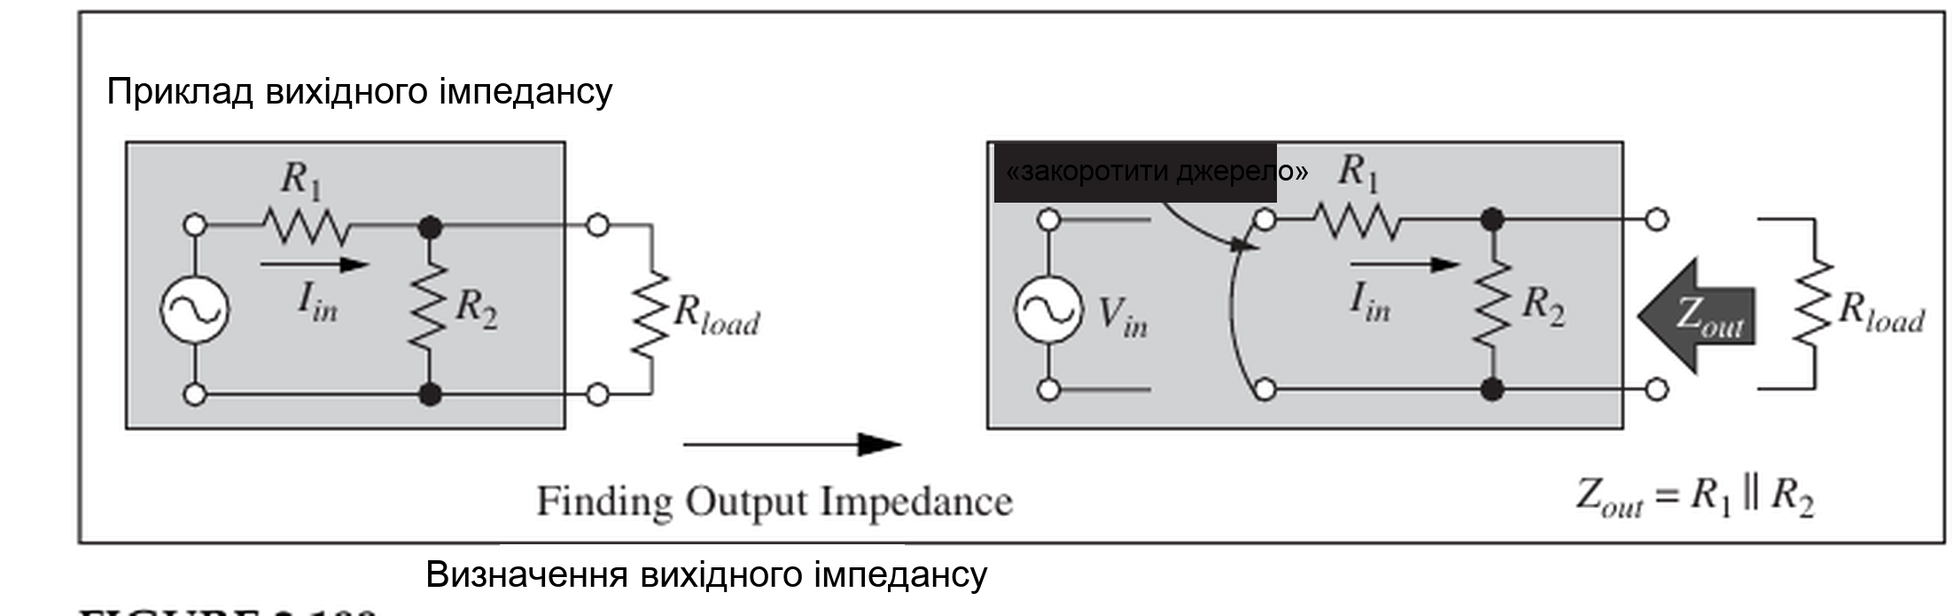
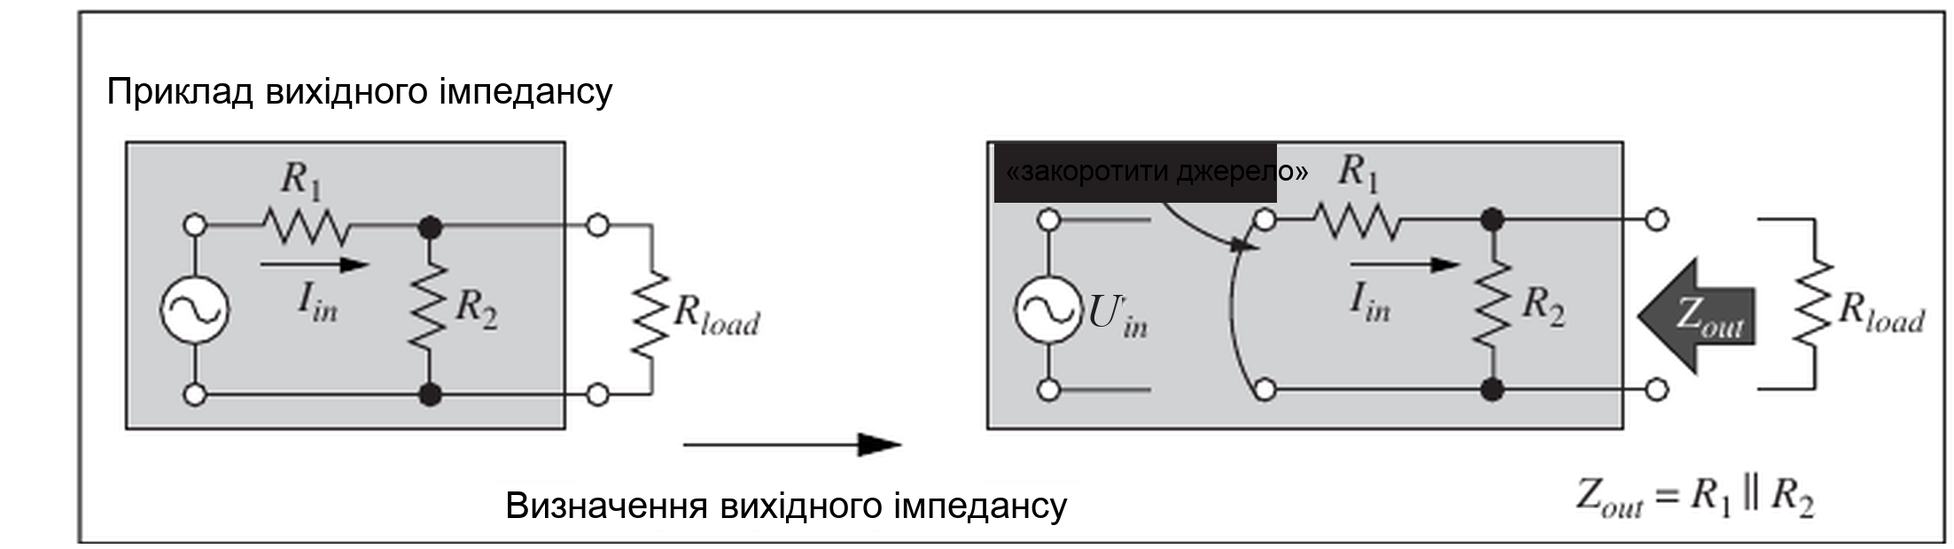
2.32: перевірка перекладу, прибрано додане, додано пропущене, V→U на рис. 2.187–2.188, нотатки перекладача, формули (список), конспект у структурі 🔹

diff --git a/Електроніка/2.32 Вхідний і вихідний імпеданс.md b/Електроніка/2.32 Вхідний і вихідний імпеданс.md
@@ -12,64 +12,39 @@
 
 Приклад пристрою з малим вхідним імпедансом — гучномовець, зазвичай $4$ або $8\,\Omega$. Він споживає значний струм, необхідний для роботи звукової котушки.
 
-> [!note] Чому саме 4 і 8 Ω?
-> Ці значення історично склалися як стандарт звукової котушки гучномовця: досить малий опір дає ефективну передачу потужності від підсилювача до котушки, а стандартизація значень забезпечує сумісність підсилювачів і акустичних систем різних виробників.
+> [!note] Про 4 і 8 Ω *(нотатка перекладача, не з оригіналу)*
+> $4$ і $8\,\Omega$ — типові номінальні імпеданси гучномовців. Саме через такий малий імпеданс вони споживають великий струм від підсилювача.
 
 Якщо вхідний імпеданс великий, навпаки, за прикладання напруги певної частоти пристрій споживає малий струм. Тому він не спричиняє істотного падіння напруги джерела в колі, що подає сигнал на вхід.
 
-Операційний підсилювач має дуже великий вхідний імпеданс — приблизно від $1$ до $10\,\mathrm{M\Omega}$. Кожен із його двох входів практично не споживає струму; типовий струм лежить у діапазоні наноамперів. В аудіотехніці попередній Hi-Fi підсилювач може мати радіовхід $1\,\mathrm{M\Omega}$, CD-вхід $500\,\mathrm{k\Omega}$ і вхід для магнітофона $100\,\mathrm{k\Omega}$. Усі вони високоомні, оскільки попередній підсилювач підсилює напругу, а не струм. Докладніше це буде розглянуто далі в книзі.
+Операційний підсилювач — пристрій із дуже великим вхідним імпедансом (від $1$ до $10\,\mathrm{M\Omega}$); один із його входів (їх два) практично не споживає струму (у діапазоні наноамперів). В аудіотехніці попередній Hi-Fi підсилювач може мати радіовхід $1\,\mathrm{M\Omega}$, CD-вхід $500\,\mathrm{k\Omega}$ і вхід для магнітофона $100\,\mathrm{k\Omega}$ — усі вони мають високоомний вхід, оскільки попередній підсилювач є підсилювачем напруги, а не струму; це ми розглянемо пізніше.
 
 ![[Зображення/Розділ 2/Рисунок 2.186 Вхідний і вихідний імпеданси.png]]
 
-**Рисунок 2.186.** Вхідний імпеданс, який «видно» з боку входу, та еквівалентна модель виходу у вигляді ідеального джерела напруги з послідовним вихідним імпедансом.
+**Рисунок 2.186**
 
-Загальне практичне правило для передавання сигналу: вхідний імпеданс приймального пристрою має бути більшим за вихідний імпеданс кола, яке подає сигнал. Зазвичай рекомендують співвідношення щонайменше $10:1$, щоб вхід не перевантажував джерело й істотно не зменшував рівень сигналу:
-
-$$
-Z_{IN}\gtrsim10Z_{OUT}.
-$$
-
-> [!tip] Скільки напруги реально втрачається при 10:1?
-> Навіть виконання цього правила не усуває втрати повністю: $V_{LOAD}=V_{THEV}\cfrac{10}{11}\approx0.909\,V_{THEV}$ — тобто губиться приблизно 9% напруги. Повний вивід цієї формули наведено нижче в розділі «Конспект → Чому виникає просідання напруги».
-
-За означенням вхідний імпеданс дорівнює
+Як загальне практичне правило, у разі передавання сигналу вхідний імпеданс пристрою має бути більшим за вихідний імпеданс кола, що подає сигнал на вхід. Зазвичай це значення має бути в 10 разів більшим, щоб вхід не перевантажував джерело сигналу й не зменшував його рівень суттєво. У розрахунках вхідний імпеданс за означенням дорівнює:
 
 $$
-Z_{IN}=\frac{V_{IN}}{I_{IN}}.
+Z_{IN}=\frac{U_{IN}}{I_{IN}}.
 $$
 
-Рисунок 2.187 показує, як визначити вхідний імпеданс двох резистивних кіл.
+> [!tip] Скільки напруги реально втрачається при 10:1? *(нотатка перекладача, не з оригіналу)*
+> Навіть виконання цього правила не усуває втрати повністю: $U_{LOAD}=U_{THEV}\cfrac{10}{11}\approx0.909\,U_{THEV}$ — тобто губиться приблизно 9% напруги. Тут використано подільник напруги $U_{LOAD}=U_{THEV}\cfrac{Z_{IN}}{Z_{OUT}+Z_{IN}}$ при $Z_{IN}=10Z_{OUT}$ (див. «Список формул»).
 
-У першому прикладі вхід бачить послідовне з’єднання $R_1$ і $R_2$:
-
-$$
-Z_{IN}=R_1+R_2.
-$$
-
-У другому прикладі до виходу під’єднано навантаження $R_{LOAD}$. Через це вхідний імпеданс треба обчислити повторно: $R_2$ і $R_{LOAD}$ з’єднані паралельно, а їхній еквівалент — послідовно з $R_1$:
-
-$$
-Z_{IN}=R_1+(R_2\parallel R_{LOAD}),
-$$
-
-де
-
-$$
-R_2\parallel R_{LOAD}
-=\frac{R_2R_{LOAD}}{R_2+R_{LOAD}}.
-$$
+Наприклад, на рисунку 2.187 показано, як визначити вхідний імпеданс двох резистивних кіл. Зверніть увагу: у прикладі 2, коли до виходу під’єднано навантаження, вхідний імпеданс треба перерахувати, беручи $R_2$ і $R_{LOAD}$ паралельно.
 
 ![[Зображення/Розділ 2/Рисунок 2.187 Приклади обчислення вхідного імпедансу.png]]
 
-**Рисунок 2.187.** Вхідний імпеданс ненавантаженого та навантаженого резистивних кіл.
+**Рисунок 2.187**
 
 У розділі 2.33.1, присвяченому фільтрам, буде показано, як вхідний імпеданс стає функцією частоти.
 
 ### 2.32.2 Вихідний імпеданс
 
-**Вихідний імпеданс** $Z_{OUT}$ — це імпеданс, який «видно», якщо дивитися назад у вихід пристрою. Вихід будь-якого кола або пристрою можна подати еквівалентною схемою: ідеальне джерело напруги $V_{SOURCE}$, послідовно з’єднане з вихідним імпедансом $Z_{OUT}$. Цю модель показано на рисунку 2.186.
+**Вихідний імпеданс** $Z_{OUT}$ — це імпеданс, який «видно», якщо дивитися назад у вихід пристрою. Вихід будь-якого кола або пристрою можна подати еквівалентною схемою: ідеальне джерело напруги $U_{SOURCE}$, послідовно з’єднане з вихідним імпедансом $Z_{OUT}$. Цю модель показано на рисунку 2.186.
 
-Еквівалентна схема представляє сукупний вплив усіх джерел напруги та загального ефективного імпедансу — опорів, ємностей і індуктивностей, — під’єднаних до вихідного боку кола. Її можна розглядати як еквівалент Тевенена. Тоді зрозуміло, що $V_{SOURCE}$ на рисунку 2.186 не обов’язково є реальною напругою живлення: це еквівалентна напруга Тевенена.
+Еквівалентна схема представляє сукупний вплив усіх джерел напруги та загального ефективного імпедансу — опорів, ємностей і індуктивностей, — під’єднаних до вихідного боку кола. Її можна розглядати як еквівалент Тевенена. Тоді зрозуміло, що $U_{SOURCE}$ на рисунку 2.186 не обов’язково є реальною напругою живлення: це еквівалентна напруга Тевенена.
 
 Як і вхідний, вихідний імпеданс може залежати від частоти. Термін **вихідний опір** застосовують, якщо реактивна складова кола мала або робоча частота низька — скажімо, менша за $1\,\mathrm{kHz}$ — і реактивними ефектами можна знехтувати. Вплив ємності та індуктивності загалом найбільший на високих частотах.
 
@@ -77,90 +52,92 @@ $$
 
 Наприклад, лабораторне джерело постійної напруги можна уявити як ідеальне джерело з малим послідовним внутрішнім опором. Якісне джерело має вихідний імпеданс порядку міліомів, тому може віддавати навантаженню значний струм без великого падіння напруги. Батарея зазвичай має більший внутрішній опір, тому зі зростанням потрібного струму її напруга просідає сильніше.
 
-Загалом малий вихідний імпеданс вважається бажаним: у ньому мало потужності втрачається у вигляді резистивного нагрівання, а джерело може віддати більший струм. Операційні підсилювачі, які мають великий вхідний імпеданс, зазвичай мають малий вихідний.
+Загалом малий вихідний імпеданс (або опір) вважається бажаним: у ньому мало потужності втрачається у вигляді резистивного нагрівання, а джерело може віддати більший струм. Операційні підсилювачі, які, як ми бачили, мають великий вхідний імпеданс, зазвичай мають малий вихідний.
 
 Якщо вихідний імпеданс великий, навіть порівняно невеликий струм навантаження може спричинити істотне падіння вихідної напруги. Якщо джерело з великим $Z_{OUT}$ намагається живити навантаження зі значно меншим $Z_{IN}$, лише мала частина напруги з’явиться на навантаженні. Більша частина буде втрачена на створенні вихідного струму крізь власний імпеданс джерела.
 
-Тому практичне правило ефективного передавання сигналу вимагає, щоб вихідний імпеданс був не більшим за одну десяту вхідного імпедансу навантаження:
+Знову ж таки, практичне правило ефективного передавання сигналу — щоб вихідний імпеданс становив щонайбільше $1/10$ вхідного імпедансу навантаження, до якого його під’єднано.
 
-$$
-Z_{OUT}\lesssim\frac{Z_{IN(LOAD)}}{10}.
-$$
-
-> [!note] Нагадування: як «вимикають» джерела для методу Тевенена
+> [!note] Нагадування: як «вимикають» джерела для методу Тевенена *(нотатка перекладача, не з оригіналу)*
 > Перш ніж шукати $Z_{OUT}$, подумки вимикають усі незалежні джерела кола: ідеальне джерело напруги замінюють коротким замиканням, а ідеальне джерело струму — розривом кола. Залежні джерела при цьому не чіпають.
 
-У розрахунках вихідний імпеданс кола дорівнює його еквівалентному імпедансу Тевенена $R_{THEV}$; його також називають **імпедансом джерела**. Для визначення $Z_{OUT}$ у колі незалежне джерело «вимикають»: ідеальне джерело напруги замінюють коротким замиканням, після чого знаходять еквівалентний імпеданс між вихідними клемами. Це й є імпеданс Тевенена.
+У розрахунках вихідний імпеданс кола — це просто його еквівалентний опір Тевенена $R_{THEV}$. Вихідний імпеданс іноді називають **імпедансом джерела**. Під час визначення вихідного імпедансу в аналізі кіл це зводиться до «вбивання» джерела (його закорочування) та знаходження еквівалентного імпедансу між вихідними клемами — імпедансу Тевенена.
 
-На рисунку 2.188 для визначення вихідного імпедансу навантаження спочатку від’єднують, а джерело напруги закорочують. Якщо дивитися у вихідні клеми, $R_1$ і $R_2$ виявляються з’єднаними паралельно:
-
-$$
-Z_{OUT}=R_1\parallel R_2
-=\frac{R_1R_2}{R_1+R_2}.
-$$
+Наприклад, на рисунку 2.188, щоб визначити вихідний імпеданс цього кола, ми, по суті, знаходимо опір Тевенена: «закорочуємо джерело», вилучаємо навантаження й визначаємо імпеданс між вихідними клемами. У цьому випадку вихідний імпеданс — це просто $R_1$ і $R_2$, з’єднані паралельно.
 
 ![[Зображення/Розділ 2/Рисунок 2.188 Обчислення вихідного імпедансу.png]]
 
-**Рисунок 2.188.** Визначення вихідного імпедансу: джерело напруги закорочують, навантаження від’єднують, а еквівалентний опір знаходять із боку виходу.
+**Рисунок 2.188**
 
-## Примітки до перекладу
+У розд. 2.33.1, де розглядаються фільтри, ви побачите, як вихідний імпеданс стає залежним від частоти.
 
-> [!important] Правило 10:1 не є узгодженням максимальної потужності
+## Примітки до перекладу й оригіналу
+
+> [!important] Правило 10:1 не є узгодженням максимальної потужності *(нотатка перекладача, не з оригіналу)*
 > У цьому розділі йдеться про передавання **сигналу напруги** з малими втратами: $Z_{IN}\gg Z_{OUT}$. Для передавання максимальної потужності в інших задачах використовують узгодження імпедансів, де умови відрізняються.
 
-> [!note] Опір та імпеданс
+> [!note] Опір та імпеданс *(нотатка перекладача, не з оригіналу)*
 > Опір — дійсна величина, яка описує резистивну складову. Імпеданс може бути комплексним і залежати від частоти через індуктивність та ємність.
 
-> [!note] Вимикання джерел
+> [!note] Вимикання джерел *(нотатка перекладача, не з оригіналу)*
 > Ідеальне незалежне джерело напруги замінюють коротким замиканням. Ідеальне незалежне джерело струму в загальному методі замінюють розривом. Залежні джерела не вимикають.
 
-## Конспект
+> [!warning] Друкарська помилка в оригіналі
+> В оригіналі останнє речення розділу посилається на «Sec. 2.3.1»; очевидно, мається на увазі розд. 2.33.1 (фільтри). У перекладі виправлено.
 
-### Головна ідея
+> [!warning] Ймовірна описка в оригіналі
+> У переліку входів попереднього підсилювача оригінал пише «tap input»; за змістом це, імовірно, вхід для магнітофона (tape). Перекладено як «вхід для магнітофона».
 
-```text
-джерело сигналу                 навантаження
-V_THEV ── Z_OUT ─────────────── Z_IN
+> [!note] Внутрішній опір батареї *(нотатка перекладача, не з оригіналу)*
+> Оригінал каже лише, що батарея зазвичай має більший внутрішній опір, ніж лабораторне джерело, тому її напруга під навантаженням просідає сильніше. Додатково відомо, що внутрішній опір батареї зазвичай зростає в міру розряджання, тож просідання напруги під струмом стає помітнішим.
 
-для доброго передавання напруги:
-Z_OUT має бути малим, Z_IN — великим
-```
+## Конспект для повторення
 
-### Основні формули
+🔹 **Головна ідея розділу.** Будь-який вихід можна подати як ідеальне джерело напруги $U_{SOURCE}$ (еквівалент Тевенена) з послідовним вихідним імпедансом $Z_{OUT}$, а будь-який вхід — як імпеданс $Z_{IN}$. Вихід і вхід утворюють подільник напруги, тому для передавання напруги **вихід має бути «м’яким» (малий $Z_{OUT}$), а вхід — «байдужим» (великий $Z_{IN}$)**. Тоді джерело майже не просідає, а сигнал доходить до навантаження без істотних втрат.
 
-| Величина | Формула |
-|---|---|
-| Вхідний імпеданс | $Z_{IN}=V_{IN}/I_{IN}$ |
-| Практичне правило | $Z_{IN}\gtrsim10Z_{OUT}$ |
-| Вихідний імпеданс | $Z_{OUT}=Z_{THEV}$ |
-| Для рисунка 2.187 без навантаження | $Z_{IN}=R_1+R_2$ |
-| Для рисунка 2.187 з навантаженням | $Z_{IN}=R_1+(R_2\parallel R_{LOAD})$ |
-| Для рисунка 2.188 | $Z_{OUT}=R_1\parallel R_2$ |
+🔹 **Ключові поняття.**
+1. **Вхідний імпеданс** $Z_{IN}=U_{IN}/I_{IN}$ — те, що «видно» у вхід; показує, який струм вхід споживає. Малий — великий струм і просідання джерела (гучномовець $4$–$8\,\Omega$); великий — малий струм (операційний підсилювач $1$–$10\,\mathrm{M\Omega}$, входи Hi-Fi попереднього підсилювача $100\,\mathrm{k\Omega}$–$1\,\mathrm{M\Omega}$).
+2. **Вихідний імпеданс** — те, що «видно» назад у вихід; дорівнює імпедансу Тевенена. Малий — можна брати великий струм без падіння напруги (лабораторне джерело — міліоми; батарея — більший внутрішній опір).
+3. **Імпеданс чи опір.** Реактивні елементи роблять імпеданс залежним від частоти; нижче $\approx1\,\mathrm{kHz}$ реактивністю часто нехтують і кажуть про вхідний/вихідний **опір**.
+4. **Навантаження змінює $Z_{IN}$.** Рис. 2.187: без навантаження $Z_{IN}=R_1+R_2$, із навантаженням $Z_{IN}=R_1+R_2\parallel R_{LOAD}$.
+5. **Знаходження $Z_{OUT}$.** «Закоротити» джерело, вилучити навантаження, знайти імпеданс між вихідними клемами. Рис. 2.188: $Z_{OUT}=R_1\parallel R_2$.
 
-### Вплив імпедансів
+🔹 **Зв’язок із попередніми темами.** Використовує закон Ома й послідовне/паралельне з’єднання опорів (2.12), еквівалент Тевенена та подільник напруги, імпеданс реактивних елементів у колах змінного струму (2.20–2.30). У наступному розділі (2.33.1) вхідний і вихідний імпеданс стають функціями частоти у фільтрах.
 
-| Умова | Наслідок |
-|---|---|
-| Великий $Z_{IN}$ | малий вхідний струм, слабке навантаження джерела |
-| Малий $Z_{IN}$ | великий струм, можливе просідання напруги джерела |
-| Малий $Z_{OUT}$ | джерело добре утримує напругу під навантаженням |
-| Великий $Z_{OUT}$ | напруга сильно залежить від струму навантаження |
+🔹 **Практичне застосування.** Узгодження каскадів у підсилювачах і аудіотехніці, вибір входів приладів (вольтметр і осцилограф — високий $Z_{IN}$), оцінювання просідання напруги джерел живлення й батарей, розрахунок фільтрів.
 
-### Чому виникає просідання напруги
+🔹 **Що запам’ятати.**
+- Правило передавання сигналу: $Z_{IN}\gtrsim10\,Z_{OUT}$, тобто $Z_{OUT}\lesssim Z_{IN(LOAD)}/10$.
+- Навіть при $10:1$ на навантаженні лишається лише $10/11\approx91\%$ напруги.
+- Високий вхід, низький вихід — для сигналів напруги; це не узгодження максимальної потужності.
+- $Z_{OUT}$ = імпеданс Тевенена: незалежне джерело напруги — закоротити, навантаження — вилучити.
+- Під’єднане навантаження входить у розрахунок $Z_{IN}$ попереднього кола.
 
-Вихідний імпеданс джерела та вхідний імпеданс навантаження утворюють подільник:
+## Список формул
 
-$$
-V_{LOAD}=V_{THEV}\frac{Z_{IN}}{Z_{OUT}+Z_{IN}}.
-$$
+**Формула**: $Z_{IN}=\dfrac{U_{IN}}{I_{IN}}$
+**Позначення**: $Z_{IN}$ — вхідний імпеданс ($\Omega$), $U_{IN}$ — напруга на вході (V), $I_{IN}$ — вхідний струм (A)
+**Фізичний смисл**: Визначення вхідного імпедансу: показує, який струм споживає вхід при заданій напрузі.
 
-Якщо $Z_{IN}=10Z_{OUT}$, то
+**Формула**: $Z_{IN}=R_1+R_2$ (рис. 2.187, приклад 1)
+**Позначення**: $R_1,R_2$ — опори послідовного резистора й резистора до землі ($\Omega$)
+**Фізичний смисл**: Вхідний імпеданс ненавантаженого резистивного кола.
 
-$$
-V_{LOAD}=V_{THEV}\frac{10}{11}\approx0.909V_{THEV}.
-$$
+**Формула**: $Z_{IN}=R_1+R_2\parallel R_{LOAD}$, $\;R_2\parallel R_{LOAD}=\dfrac{R_2R_{LOAD}}{R_2+R_{LOAD}}$ (рис. 2.187, приклад 2)
+**Позначення**: $R_{LOAD}$ — опір навантаження на виході ($\Omega$), решта — як вище
+**Фізичний смисл**: Навантаження змінює вхідний імпеданс: його треба перерахувати, беручи $R_2$ і $R_{LOAD}$ паралельно. (Розкриття паралельного з’єднання — не з оригіналу.)
 
-Отже, навіть правило 10:1 допускає приблизно 9% втрати напруги.
+**Формула**: $Z_{OUT}=R_1\parallel R_2=\dfrac{R_1R_2}{R_1+R_2}$ (рис. 2.188)
+**Позначення**: $Z_{OUT}$ — вихідний імпеданс ($\Omega$), $R_1,R_2$ — опори кола з джерелом, що закорочене ($\Omega$)
+**Фізичний смисл**: Вихідний імпеданс = імпеданс Тевенена: опір між вихідними клемами при закороченому джерелі й вилученому навантаженні. (Розкриття паралельного з’єднання — не з оригіналу.)
+
+**Формула**: $Z_{IN}\gtrsim10\,Z_{OUT}$; рівносильно $Z_{OUT}\lesssim\dfrac{Z_{IN(LOAD)}}{10}$ *(словесне правило оригіналу, записане формулою)*
+**Позначення**: $Z_{IN}$ — вхідний імпеданс приймача, $Z_{OUT}$ — вихідний імпеданс джерела сигналу
+**Фізичний смисл**: Практичне правило передавання сигналу без суттєвих втрат напруги.
+
+**Формула**: $U_{LOAD}=U_{THEV}\dfrac{Z_{IN}}{Z_{OUT}+Z_{IN}}$ *(виведено перекладачем, в оригіналі явно не записано)*
+**Позначення**: $U_{THEV}$ — еквівалентна напруга джерела (V), $U_{LOAD}$ — напруга на навантаженні (V), $Z_{IN}$ — імпеданс навантаження, $Z_{OUT}$ — вихідний імпеданс джерела
+**Фізичний смисл**: Подільник напруги «джерело — навантаження»; при $Z_{IN}=10Z_{OUT}$ на навантаженні $\approx0.909\,U_{THEV}$.
 
 ## Підказки для зручного вивчення
 
@@ -178,7 +155,7 @@ $$
 2. Подивися в коло з боку вхідних клем.
 3. Обов’язково врахуй під’єднане навантаження.
 4. Зведи послідовні та паралельні імпеданси.
-5. Перевір результат через $Z_{IN}=V_{IN}/I_{IN}$.
+5. Перевір результат через $Z_{IN}=U_{IN}/I_{IN}$.
 
 ### Алгоритм знаходження вихідного імпедансу
 
@@ -195,7 +172,7 @@ $$
 - Закоротити навантаження замість його від’єднання під час пошуку $Z_{OUT}$.
 - Не вимкнути незалежне джерело.
 - Застосувати правило 10:1 там, де потрібне узгодження максимальної потужності.
-- Вважати $V_{SOURCE}$ у моделі виходу буквальною напругою живлення, а не еквівалентом Тевенена.
+- Вважати $U_{SOURCE}$ у моделі виходу буквальною напругою живлення, а не еквівалентом Тевенена.
 
 ### Мінікартки
 
@@ -224,8 +201,7 @@ $$
 6. Знайди $Z_{IN}$, якщо $R_1=1\,\mathrm{k\Omega}$, $R_2=9\,\mathrm{k\Omega}$ і навантаження немає.
 7. Повтори попередню задачу для $R_{LOAD}=9\,\mathrm{k\Omega}$.
 8. Знайди $Z_{OUT}$ рисунка 2.188 для $R_1=1\,\mathrm{k\Omega}$ і $R_2=4\,\mathrm{k\Omega}$.
-9. Яка напруга буде на навантаженні $10\,\mathrm{k\Omega}$, якщо $V_{THEV}=5\,\mathrm V$, а $Z_{OUT}=1\,\mathrm{k\Omega}$?
-10. Чому $Z_{OUT}$ батареї зростає в міру її розряджання і як це проявляється під навантаженням?
+9. Яка напруга буде на навантаженні $10\,\mathrm{k\Omega}$, якщо $U_{THEV}=5\,\mathrm V$, а $Z_{OUT}=1\,\mathrm{k\Omega}$?
 
 > [!question]- Короткі відповіді до обчислювальних запитань
 > 6. $Z_{IN}=1+9=10\,\mathrm{k\Omega}$.
@@ -234,4 +210,4 @@ $$
 >
 > 8. $Z_{OUT}=1\parallel4=0.8\,\mathrm{k\Omega}=800\,\Omega$.
 >
-> 9. $V_{LOAD}=5\times10/(1+10)\approx4.55\,\mathrm V$.
+> 9. $U_{LOAD}=5\times10/(1+10)\approx4.55\,\mathrm V$.
